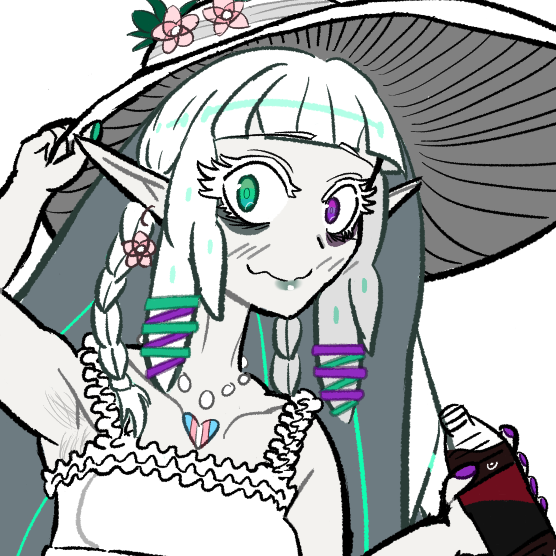
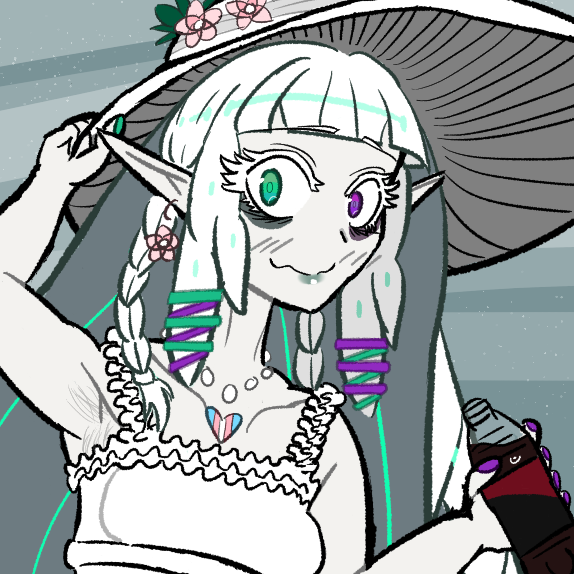
🎨 Apply position-specific styling

diff --git a/pages/carrd.vue b/pages/carrd.vue
@@ -94,7 +94,7 @@
   --avatar-height: 200px;
   --avatar-width: 200px;
 
-  background-position: right;
+  background-position: v-bind(entry.position);
   background-size: cover;
 }
 
@@ -157,9 +157,9 @@ useSeoMeta({
 
 // Randomize avatar and background set
 const entries = [
-  { avatar: "/img/avatar.png", background: "/img/carrd_bg.png"},
-  { avatar: "/img/avatar_1.png", background: "/img/carrd_bg_1.png"},
-  { avatar: "/img/avatar_2.png", background: "/img/carrd_bg_2.png"},
+  { avatar: "/img/avatar.png", background: "/img/carrd_bg.png", position: "right"},
+  { avatar: "/img/avatar_1.png", background: "/img/carrd_bg_1.png", position: "right"},
+  { avatar: "/img/avatar_2.png", background: "/img/carrd_bg_2.png", position: "right 50% top 10%"},
 ];
 const key = Math.floor(Math.random() * entries.length);
 const entry = entries[key];
